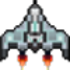
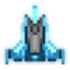
6th

diff --git a/window.py b/window.py
@@ -21,7 +21,7 @@ class Window:
         self.running = True
 
         self.player = player.Player(self.screen)
-        
+
         self.enemies = []
         self.previous_spawn_time = 0
         self.enemy_cooldown = 2000
@@ -36,6 +36,7 @@ class Window:
         while self.running:
         
             self.handle_background()
+            self.check_collisions()
             self.handle_events()
             self.constant_update_movements()
             self.initialize_screen()
@@ -74,7 +75,7 @@ class Window:
     def generate_enemies(self):
         current_spawn_time = pg.time.get_ticks()
         r = random.Random() 
-        if current_spawn_time - self.previous_spawn_time >= self.enemy_cooldown:
+        if current_spawn_time - self.previous_spawn_time >= 2*self.enemy_cooldown:
             new_enemy = enemy.Enemy(self.screen, r.randrange(50,900))
             self.enemies.append(new_enemy)
             self.previous_spawn_time = current_spawn_time
@@ -87,9 +88,27 @@ class Window:
     
     def draw_enemies(self):
         for enemy in self.enemies:
-            enemy.draw()
+            # enemy.draw()
+            self.screen.blit(enemy.image, (enemy.x, enemy.y))
     
     def handle_shooting(self, keys):
         if keys[pg.K_z]:
             self.player.default_shot()
+
+    def check_collisions(self):
+        player_rect = pg.Rect(self.player.x, self.player.y, self.player.width, self.player.height)
+        for enemy in self.enemies:
+            enemy_rect = pg.Rect(enemy.x, enemy.y, enemy.width, enemy.height)
+            if player_rect.colliderect(enemy_rect):
+                print("Collision detected!")
+                # Handle collision (e.g., end game, reduce health, etc.)
+        
+        for laser in self.player.lasers:
+            laser_rect = pg.Rect(laser.x, laser.y, laser.width, laser.height)
+            for enemy in self.enemies:
+                enemy_rect = pg.Rect(enemy.x, enemy.y, enemy.width, enemy.height)
+                if laser_rect.colliderect(enemy_rect):
+                    print("Enemy hit!")
+                    # Handle hit (e.g., remove enemy, increase score, etc.)
+
     

diff --git a/enemy.py b/enemy.py
@@ -4,19 +4,20 @@ class Enemy:
 
     def __init__(self, screen, x):
         self.screen = screen
+        self.image = pg.image.load("assets/ship1.png")
         self.x = x
         self.y = 0 # <= 200
         self.velocity = 2
-        self.width = 50
-        self.height = 50
+        self.width = 70
+        self.height = 70
 
-    def draw(self):
-        points = [
-            (self.x + self.width / 2, self.y + self.height),
-            (self.x , self.y),
-            (self.x + self.width, self.y)
-        ]
-        pg.draw.polygon(self.screen, (255, 0, 0), points)
+    # def draw(self):
+        # points = [
+        #     (self.x + self.width / 2, self.y + self.height),
+        #     (self.x , self.y),
+        #     (self.x + self.width, self.y)
+        # ]
+        # pg.draw.polygon(self.screen, (255, 0, 0), points)
 
     def move(self):
         self.y += self.velocity
